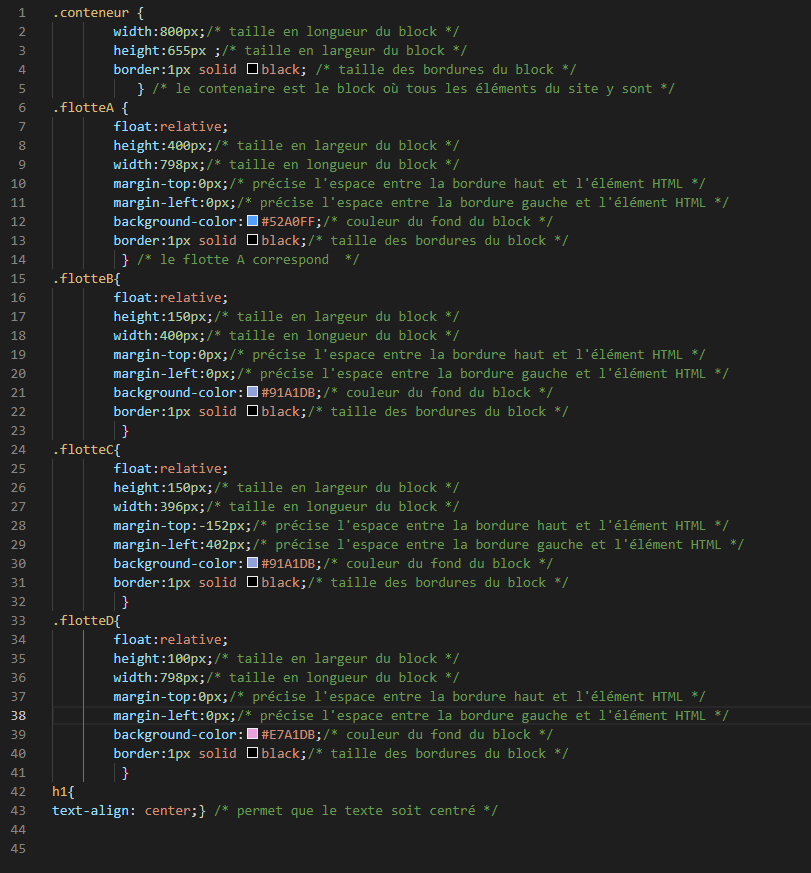
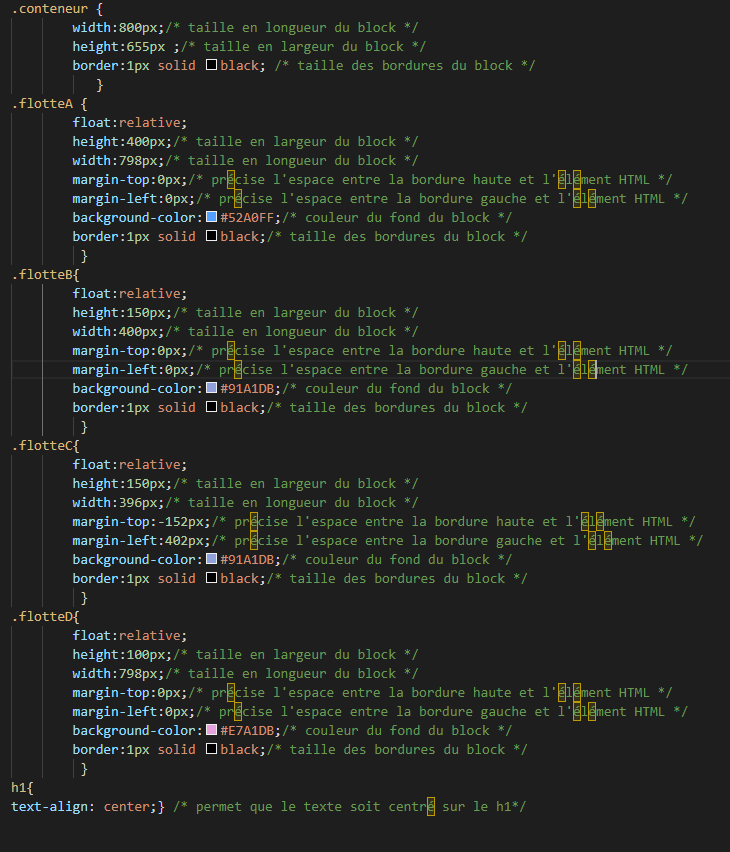
Add files via upload

Changed region(s): [[0.0, 0.0, 0.9644, 0.9765]]

diff --git a/mesprojets.html b/mesprojets.html
@@ -11,24 +11,26 @@
    
 		<div class="conteneur">
                   
-				<CENTER><FONT face="elephant"><h1>_____________</h1></FONT></CENTER>
-                <CENTER><FONT face="elephant"><h1>Quels sont mes projets faits en classe ?</h1></FONT></CENTER>
-				<CENTER><FONT face="elephant"><h1>_____________</h1></FONT></CENTER>
+                <CENTER><FONT face="Roboto"><h1>Quels sont mes projets faits en classe ?</h1></FONT></CENTER>
 
 				<div class="flotteB">
-					<h2> Pendant ces deux années en sin nous avons fait plusieurs tp et toucher à plusieur logiciel.<br><br> - Nous travaillons principalement avec arduino c’est pour cela que nous utilisons PROTEUS, pour visualiser ce que nous allons faire avant de faire les branchements avec la carte arduino.<br><br>
-						- Nous avons aussi travaillé plusieurs fois sur les adresses ip avec le logiciel FILIUS pour simuler un réseau informatique.
-						<br><br>- Nous avons utilisé "IoT MQTT Panel" et grâce à cette application nous avons pu envoyer des messages entre nous en classe  et le prof à pus aussi faire clignoter notre led depuis son téléphone.<br><br>
-						Exemple de projet fait en classe avec PROTEUS :<br>
+					<div> <FONT face="Roboto"><br>
+						Pendant ces deux années en SIN, nous avons fait plusieurs TP et nous avons utilisé plusieurs logiciels.<br><br> 
+						- Lors des TP, nous utilisons le logiciel <b>PROTEUS</b> pour assembler virtuellement les différents composants et nous concevons un programme informatique pour faire fonctionner l’ensemble. 
+						Ce programme  est appliqué sur une carte <b>Arduino</b> qui est reliée aux composants (led, fil électrique, platine d'expérimentation…) qui permet de les faire fonctionner.<br><br> 			
+						- Nous avons travaillé plusieurs fois sur les adresses IP avec le logiciel <b>FILIUS</b> pour simuler un réseau informatique.
+						<br><br>- Nous avons utilisé l'application <b>IoT MQTT Panel</b> sur notre téléphone pour envoyer des messages entre nous en classe. Avec cette application, on peut envoyer des instructions à distance à une personne sélectionnée, exemple le professeur
+a fait clignoter une led virtuelle sur mon téléphone portable depuis le sien.<br><br></FONT>
+						<h2><u>Exemple de projet avec PROTEUS :</u></h2><br>
 						<img src="proteus1.PNG" height="650px" width="1100px" /><br>
 						<img src="proteus2.PNG" height="600px" width="1100px" /><br><br>
-						Exemple de projet fait en classe avec FILIUS :<br>
+						<h2><u>Exemple de projet avec FILIUS :</u></h2><br>
 						<img src="filius.PNG" height="870px" width="1100px" /><br>
-						Exemple de projet fait en classe avec IoT MQTT Panel :<br>
+						<h2><u>Exemple de projet avec IoT MQTT Panel :</u></h2><br>
 						<img src="panel2.jpg" height="400px" width="200px" />
 						<img src="panel1.jpg" height="400px" width="200px" />
 						
-					</h2>
+					</div>
                 </div>
 					   
 		</div>		   

diff --git a/conception.html b/conception.html
@@ -12,35 +12,33 @@
 
    	    <div class="conteneur">
                   
-			<CENTER><FONT face="elephant"><h1>_____________</h1></FONT></CENTER>
-            <CENTER><FONT face="elephant"><h1>Conception de mon site</h1></FONT></CENTER>
-			<CENTER><FONT face="elephant"><h1>_____________</h1></FONT></CENTER>
+            <CENTER><FONT face="Roboto"><h1>Conception de mon site</h1></FONT></CENTER>
 
-			<div class="flotteB">
-				<li>
-					&nbsp Pour ce site, j'ai utilisé :<br><br>
+			<div class="flotteB"><FONT face="Roboto">
+				<h2><b>Pour ce site, j'ai utilisé :</b></h2> <br>
 					&nbsp&nbsp&nbsp- Visual Studio pour écrire mon code : <br>
 
-					Il permet de détecter les différents types d'instructions grace aux couleurs. <br>
-					Il permet aussi d'indenter les instructions pour plus de clareté.<br>
-					Enfin, sur le web il est indiqué qu'il est beaucoup utilisé par les développeurs <br><br>
+					&nbsp&nbsp&nbsp&nbsp&nbsp&nbsp&nbsp&nbsp&nbsp&nbsp&nbsp&nbsp- Il permet de détecter les différents types d'instructions grâce aux couleurs. <br>
+					&nbsp&nbsp&nbsp&nbsp&nbsp&nbsp&nbsp&nbsp&nbsp&nbsp&nbsp&nbsp- Il permet aussi d'indenter les instructions pour plus de clarté.<br>
+					&nbsp&nbsp&nbsp&nbsp&nbsp&nbsp&nbsp&nbsp&nbsp&nbsp&nbsp&nbsp- Enfin, sur le web, il est indiqué qu'il est beaucoup utilisé par les développeurs <br><br>
 					&nbsp&nbsp&nbsp- Github pour le publier<br><br>
-				</li>
-				<li>
-					&nbspPrésentation de la page principale du site : <br>
+				
+				
+					<h2><b> Présentation de la page principale du site :</b></h2> <br>
+					
 					&nbsp&nbsp&nbsp- J'ai créé un bloc principal avec une feuille de style.<br>
 					&nbsp&nbsp&nbsp- Dans ce bloc principal, j'ai ajouté 3 sous-blocs. <br>
-					&nbsp&nbsp&nbsp- Dans chaque sous-bloc, j'ai mis un titre et un lien qui redirige vers une autre page avec une autre feuille de style<br><br><br>
-				</li>
-				<li>
-					Voici quelques images de mon code :<br><br><br>
-				</li>
-				Screen du code HTML de la première page du site : <br><br>
-				<img src="screenpresentationhtml.png" height="900px" width="1200px" /> <br><br>
-				Screen du code CSS de la première page du site :<br><br><br>
-				<img src="screenpresentationcss.png" height="1200px" width="1200px" /> <br><br>
+					&nbsp&nbsp&nbsp- Dans chaque sous-bloc, j'ai mis un titre et un lien qui redirige vers une autre page avec une autre feuille de style.<br><br><br>
+				
+				
+					<h2><b>Voici quelques images de mon code :</b></h2> <br>
+				
+				Screen du code HTML et CSS de la première page du site : <br><br>
+				<img src="screenpresentationhtml.png" height="800px" width="1200px" /> <br><br>
+				<br>
+				<img src="screenpresentationcss.png" height="800px" width="800px" /> <br><br>
 
-			</div>				   
+			</FONT></div>				   
         </div>		   		   
 	</BODY>
 </html>

diff --git a/mesrealisations.html b/mesrealisations.html
@@ -10,32 +10,33 @@
    
    	     <div class="conteneur">
                   
-				    <CENTER><FONT face="elephant"><h1>_____________</h1></FONT></CENTER>
-                    <CENTER><FONT face="elephant"><h1>Quelles sont mes réalisations personnelles ?</h1></FONT></CENTER>
-					<CENTER><FONT face="elephant"><h1>_____________</h1></FONT></CENTER>
+                    <CENTER><FONT face="Roboto"><h1>Quelles sont mes réalisations personnelles ?</h1></FONT></CENTER>
+
 							  
 					<div class="flotteB">
-				    	<h2> 
+				    	<div> <FONT face="Roboto">
 					  
 			        		<ul> 
-                      			<li> la modélisation </li> 
-								    Pour modéliser j’utilise le logiciel blender.
-									<br>
+                      			<h2><u>La modélisation</u></h2> <br>
+								    J’utilise le logiciel BLENDER.
+									<br><br>
 									<video controls="controls">
 									<source src="videobut.mp4" height="300px" width="300px"> 
 									</video><br><br>
 								
-                      			<li> l'impression 3D </li> 
-									Pour faire une impression 3D, je télécharge un modèle sur internet. Puis je le prévisualise grâce au logiciel ultimeker cura. Et je mets le fichier sur une clé usb que je mets dans l’imprimante 3D pour l’imprimer.
-									<br>
+									<h2><u>L'impression 3D</u></h2> <br>
+									Je télécharge un modèle sur internet. Je le visualise et le recadre grâce au logiciel <b>Ultimeker Cura</b>. Je génère un fichier que je sauvgarde sur une clé USB. Enfin, j'insère la clé USB dans l'imprimante 3D pour démarrer l'impression.
+									<br><br>
 									<img src="photoobjet3dface.jpg" height="300px" width="300px" />
 									<img src="photoobject3dprofile.jpg" height="300px" width="300px" />
 									<br><br>
-								<li> le dessin </li> 
+									<h2><u>Le dessin</u></h2> <br>
+									Lorsque j’ai du temps libre, j’aime dessiner des personnages inspirés de jeux vidéo, de Manga et d'autres dessins trouvés sur internet.<br><br>
 									<img src="photodessinhomme.jpg" height="300px" width="300px" />
 									<img src="photodessinfemme.jpg" height="300px" width="300px" />
 									<img src="photodessinastronote.jpg" height="300px" width="300px" />
 									<br>
+									
 									<img src="photodessinkoro.jpg" height="300px" width="300px" />
 									<img src="photodessinelfe.jpg" height="300px" width="300px" />
 									<img src="photodessinraptorjesus.jpg" height="300px" width="300px" />
@@ -44,7 +45,7 @@
 									<img src="photodessinwatson2.jpg" height="300px" width="300px" />
 									<img src="photodessinamis.jpg" height="300px" width="300px" />
                     		</ul>
-				     	</h2>
+						</FONT></div>
                    </div>	   
          </div>		   
      </BODY>

diff --git a/presentation.css b/presentation.css
@@ -2,21 +2,21 @@
         width:800px;/* taille en longueur du block */
         height:655px ;/* taille en largeur du block */
         border:1px solid black; /* taille des bordures du block */
-		   } /* le contenaire est le block où tous les éléments du site y sont */
+		   } 
 .flotteA {
         float:relative;
 		height:400px;/* taille en largeur du block */
         width:798px;/* taille en longueur du block */
-		margin-top:0px;/* précise l'espace entre la bordure haut et l'élément HTML */
+		margin-top:0px;/* précise l'espace entre la bordure haute et l'élément HTML */
 		margin-left:0px;/* précise l'espace entre la bordure gauche et l'élément HTML */
         background-color:#52A0FF;/* couleur du fond du block */
         border:1px solid black;/* taille des bordures du block */
-	     } /* le flotte A correspond  */
+	     } 
 .flotteB{
         float:relative;
 		height:150px;/* taille en largeur du block */
         width:400px;/* taille en longueur du block */
-		margin-top:0px;/* précise l'espace entre la bordure haut et l'élément HTML */
+		margin-top:0px;/* précise l'espace entre la bordure haute et l'élément HTML */
 		margin-left:0px;/* précise l'espace entre la bordure gauche et l'élément HTML */
         background-color:#91A1DB;/* couleur du fond du block */
         border:1px solid black;/* taille des bordures du block */
@@ -25,7 +25,7 @@
         float:relative;
 		height:150px;/* taille en largeur du block */
         width:396px;/* taille en longueur du block */
-		margin-top:-152px;/* précise l'espace entre la bordure haut et l'élément HTML */
+		margin-top:-152px;/* précise l'espace entre la bordure haute et l'élément HTML */
 		margin-left:402px;/* précise l'espace entre la bordure gauche et l'élément HTML */
         background-color:#91A1DB;/* couleur du fond du block */
         border:1px solid black;/* taille des bordures du block */
@@ -34,11 +34,11 @@
         float:relative;
 		height:100px;/* taille en largeur du block */
         width:798px;/* taille en longueur du block */
-		margin-top:0px;/* précise l'espace entre la bordure haut et l'élément HTML */
+		margin-top:0px;/* précise l'espace entre la bordure haute et l'élément HTML */
 		margin-left:0px;/* précise l'espace entre la bordure gauche et l'élément HTML */
         background-color:#E7A1DB;/* couleur du fond du block */
         border:1px solid black;/* taille des bordures du block */
 	     }		 
 h1{
-text-align: center;} /* permet que le texte soit centré */
+text-align: center;} /* permet que le texte soit centré sur le h1*/
 

diff --git a/pres-417NEV.html b/pres-417NEV.html
@@ -9,14 +9,16 @@
    <BODY>
          <div class="conteneur">
                   <div class="flotteA"> <!-- le flotte A correspond au block de couleur bleu où il y a la présentation du site-->
-                              <FONT face="Roboto"><h1>DAGUET Romain</h1></FONT><!-- FONT permet de changer la police d'écriture-->
-							  <FONT face="Roboto"><h1>—————————</h1></FONT>
-							  <CENTER><img src="logo_IUT_Velizy.png" height="120px" width="200px" /> &nbsp &nbsp <img src="romain.jpg" height="120px" width="100px" />&nbsp  <img src="butinfo2.gif" height="120px" width="180px" /></CENTER>
-							  <!-- les 3 images allignées dans le flotte A sont redimentionnées pour qu'elles soient toutes la même taille-->
+				              <FONT face="elephant"><h1>_____________</h1></FONT><!-- FONT permet de changer la police d'écriture-->
+                              <FONT face="elephant"><h1>DAGUET Romain</h1></FONT>
+							  <FONT face="elephant"><h1>_____________</h1></FONT>
+							  <CENTER><img src="logo_IUT_Nevers.png" height="120px" width="200px" /> &nbsp &nbsp <img src="romain.jpg" height="120px" width="100px" />&nbsp  <img src="butinfo2.gif" height="120px" width="180px" /></CENTER>
+							   <!-- les 3 images allignées dans le flotte A sont redimentionnées pour qu'elles soient toutes la même taille-->
 
-							  <FONT face="Roboto">
-								  <h1>Bonjour, voici une courte présentation</h1>
-								  <CENTER><h2>Actuellement en Terminale STI2D (SIN)</h2></CENTER><!-- texte de présentation avec une police d'écriture changée -->
+							  <FONT face="elephant">
+								  <h1>
+								  	Bonjour voici une courte présentation <!-- texte de présentation avec une police d'écriture changée -->
+								  </h1>
 							  </FONT>
 							  
 							  

diff --git a/mesrealisations.css b/mesrealisations.css
@@ -1,6 +1,6 @@
 .conteneur {      
         width:1200px;
-        height:2450px ;
+        height:2490px ;
 		
         border:1px solid black;
 		background-color:#00BFFF;
@@ -8,8 +8,8 @@
 .flotteB {
         float:relative;
 
-		width:1199px;
-		height:2240px;
+		width:1198px;
+		height:2408px;
 		
 		margin-top:0px;
 		margin-left:0px;

diff --git a/conceptions.css b/conceptions.css
@@ -1,6 +1,6 @@
 .conteneur {      
         width:1200px;
-        height:2692px ;
+        height:2252px ;
 		
         border:1px solid black;
 		background-color:#00BFFF;
@@ -8,7 +8,7 @@
 .flotteB {
         float:relative;
 		
-		height:2481px;
+		height:2170px;
         width:1198px;
 		
 		margin-top:0px;

diff --git a/mesprojets.css b/mesprojets.css
@@ -1,6 +1,6 @@
 .conteneur {      
         width:1200px;
-        height:3200px ;
+        height:3142px ;
 		
         border:1px solid black;
 		background-color:#00BFFF;
@@ -8,7 +8,7 @@
 .flotteB {
         float:relative;
 		
-		height:2990px;
+		height:3060px;
         width:1198px;
 		
 		margin-top:0px;
